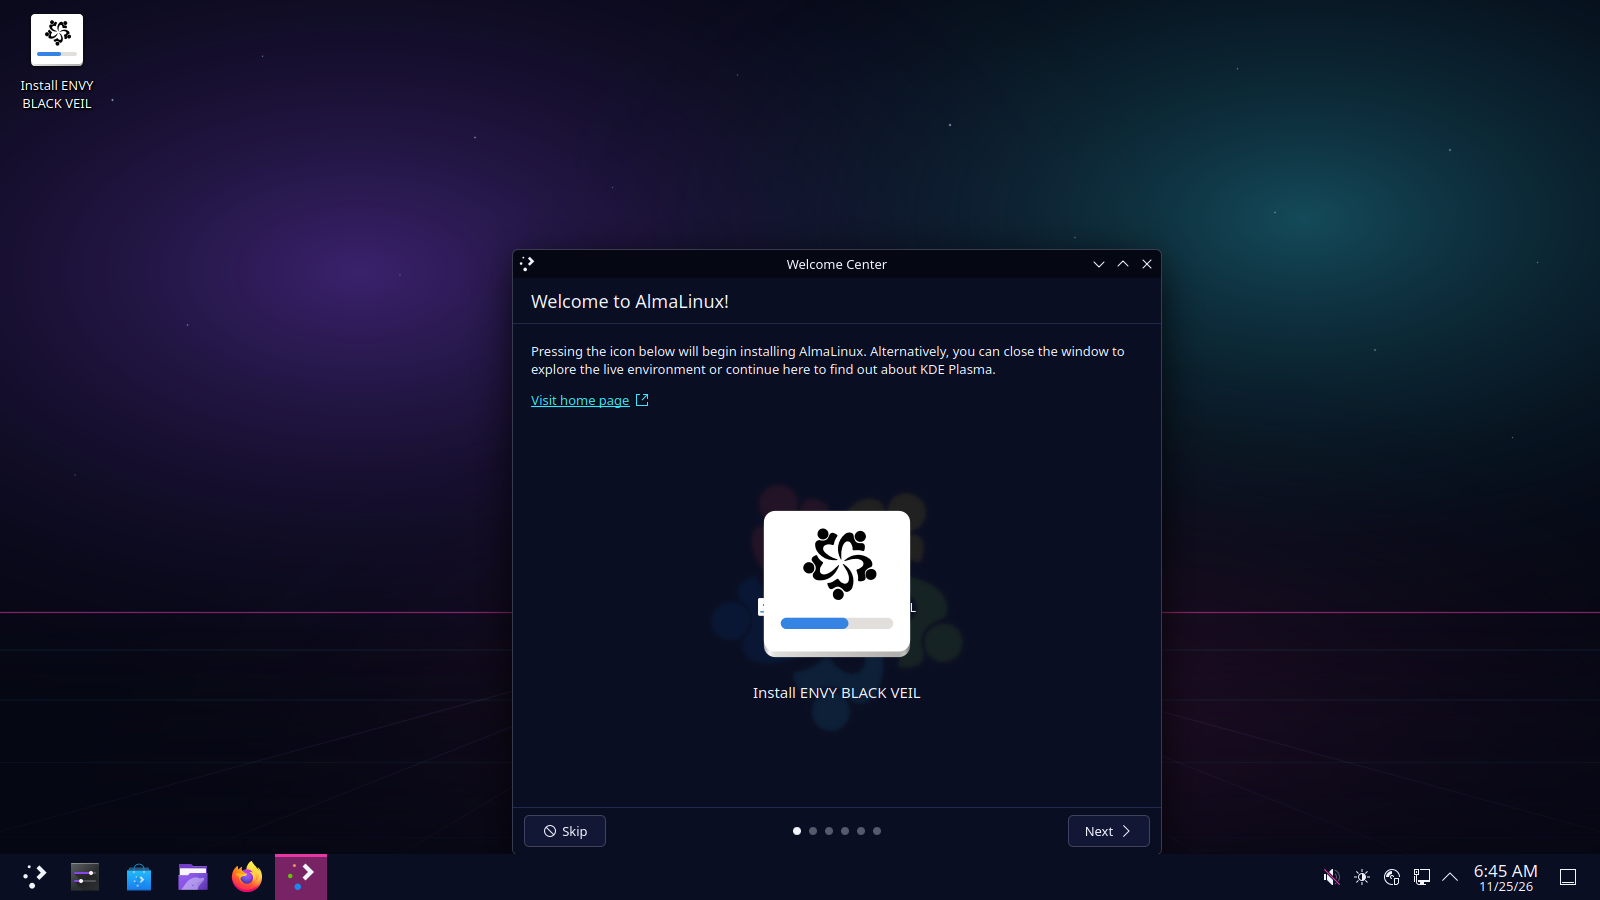
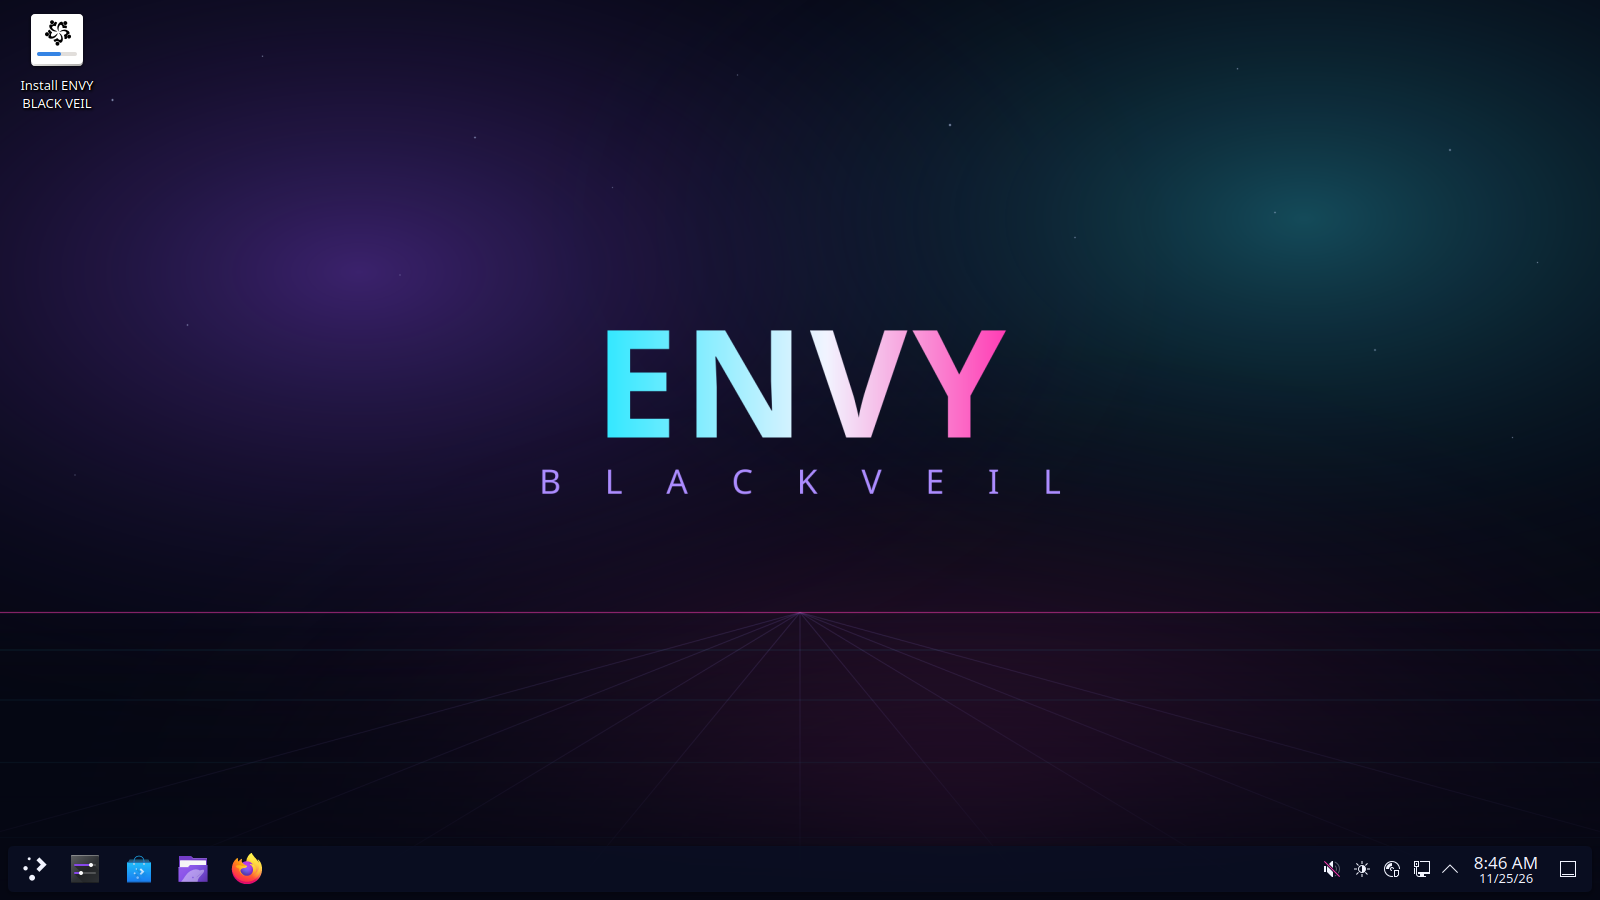
Installed systems as the image means them: ENVY GRUB menu, closed firewall, graphical
Found by the first full install test (55/55 checks now pass on aarch64 locally):
- The ENVY GRUB menu on installed systems comes from /etc/grub.d/05_envy_black_veil:
  Anaconda 40 no longer runs /usr/share/anaconda/post-scripts, so the old hook
  never ran. Boot entries are named "ENVY BLACK VEIL (<kernel>) on AlmaLinux 10.x"
  by a kernel-install hook, at install time and on kernel updates.
- The installer keeps the image's firewall (on, nothing open): Anaconda opens SSH
  on every install unless told otherwise, so the image's interactive defaults
  say firewall --use-system-defaults.
- boot-test: the test install asks for graphical boot (as a GUI install has it),
  adds its kickstart to BLACK VEIL's interactive defaults instead of replacing
  them, fixes the Secure Boot variable's GUID, soaks up the login echo before the
  first command, and stretches every serial wait in emulated VMs.
- Secure Boot (CI round 6, x86_64): the live ISO boots through its own GRUB and
  the installed disk boots, unlocks and logs in, with the kernel locked down.
- try-black-veil.ps1 -NoStart, and Windows CI now really creates the Hyper-V VM,
  checks Gen 2 / Secure Boot template / DVD first / 6 GB / 4 CPUs / 40 GB disk,
  and removes it again.
- README: try it on every OS, what "nothing phones home" means, build from a Mac;
  the live-desktop screenshot without the off-brand Welcome Center.

diff --git a/ci/boot-test.py b/ci/boot-test.py
@@ -100,6 +100,7 @@ def hardware_accel() -> str | None:
 
 
 ACCEL = "tcg"                            # set in main(): kvm, hvf, or tcg (emulated)
+SLOW = 1                                 # set in main(): emulated VMs get every wait stretched
 
 # The throwaway identity of the CI install (never used outside these VMs).
 TEST_USER = "envytest"
@@ -122,6 +123,7 @@ network --hostname=black-veil
 rootpw --lock
 user --name={TEST_USER} --groups=wheel --password={TEST_PASSWORD} --plaintext
 firstboot --disable
+xconfig --startxonboot
 shutdown
 ignoredisk --only-use=vda
 zerombr
@@ -198,7 +200,7 @@ def secure_boot_firmware(vars_copy: Path) -> list[str] | None:
 
 def secure_boot_checks(res: Results, prefix: str, sudo: str) -> None:
     res.check(f"{prefix}Secure Boot is on",
-              "od -An -tu1 /sys/firmware/efi/efivars/SecureBoot-8be4df61-93ca-11d2-aa0d-e0f6e2c33c69 | awk '{print $NF}'",
+              "od -An -tu1 /sys/firmware/efi/efivars/SecureBoot-8be4df61-93ca-11d2-aa0d-00e098032b8c | awk '{print $NF}'",
               ok=lambda rc, o: o == "1")
     res.check(f"{prefix}kernel lockdown (Secure Boot's protection of the running kernel)",
               "cat /sys/kernel/security/lockdown", ok=lambda rc, o: "[integrity]" in o or "[confidentiality]" in o)
@@ -373,7 +375,7 @@ class Serial:
         tag = f"ENVYRC{self.count}X"
         self.buf = ""
         self.send(f"{command}; echo {tag}=$?\n")
-        deadline = time.monotonic() + timeout
+        deadline = time.monotonic() + timeout * SLOW
         rx = re.compile(rf"{tag}=(\d+)")
         while time.monotonic() < deadline:
             m = rx.search(self.buf)
@@ -387,16 +389,17 @@ class Serial:
 
     def login(self, user: str, password: str, first_timeout: float) -> bool:
         for attempt in range(12):
-            if not self.expect(r"login:\s*$", first_timeout if attempt == 0 else 90):
+            if not self.expect(r"login:\s*$", first_timeout if attempt == 0 else 90 * SLOW):
                 return False
             self.send(user + "\n")
-            m = self.expect(r"(Password:\s*$|\$\s*$|Login incorrect)", 30)
+            m = self.expect(r"(Password:\s*$|\$\s*$|Login incorrect)", 30 * SLOW)
             if m and m.group(1).startswith("Password"):
                 self.send(password + "\n")
-                m = self.expect(r"(\$\s*$|Login incorrect)", 30)
+                m = self.expect(r"(\$\s*$|Login incorrect)", 30 * SLOW)
             if m and "$" in m.group(1):
                 self.send("export PS1='$ ' TERM=dumb; stty -echo; unset PROMPT_COMMAND\n")
-                self.expect(r"\$\s*$", 10)
+                self.expect(r"\$\s*$", 10 * SLOW)
+                self.run("true", 30)                     # soak up the rest of the echo
                 return True
             time.sleep(5)                                # e.g. livesys still creating the user
         return False
@@ -611,9 +614,10 @@ def install_to_disk(res: Results, args, out: Path) -> bool:
            " ANACONDA_PRODUCTVERSION=\"$(sed -r -e 's/^.* ([0-9.]+).*$/\\1/' /etc/system-release)\""
            " ANACONDA_ISFINAL=true")
     # In live mode Anaconda ignores --kickstart and parses its interactive defaults,
-    # /usr/share/anaconda/interactive-defaults.ks, instead; in this throwaway live VM the
-    # test's kickstart takes that file's place, and AUTOMATED_ANACONDA runs it unattended.
-    con.run("{ ( " + SUDO + " " + env + " sh -c 'cp /tmp/envy-install.ks /usr/share/anaconda/interactive-defaults.ks;"
+    # /usr/share/anaconda/interactive-defaults.ks, instead (BLACK VEIL's own defaults
+    # are in there); in this throwaway live VM the test's kickstart is added to them,
+    # and AUTOMATED_ANACONDA runs the result unattended.
+    con.run("{ ( " + SUDO + " " + env + " sh -c 'cat /tmp/envy-install.ks >> /usr/share/anaconda/interactive-defaults.ks;"
             " setenforce 0; python3 /tmp/envy-anaconda.py --liveinst --cmdline"
             " > /tmp/envy-install.log 2>&1; echo $? > /tmp/envy-install.rc; setenforce 1' ) > /dev/null 2>&1 & }", 30)
     started, last, status = time.monotonic(), "", None
@@ -762,8 +766,11 @@ def boot_installed(args, out: Path, res: Results, disk: Path, secure: bool = Fal
         res.check("installed: ENVY boot splash is the default", "plymouth-set-default-theme",
                   ok=lambda rc, o: o == "envy-black-veil")
         res.check("installed: ENVY GRUB menu switched on",
-                  "grep -E '^GRUB_(THEME|TERMINAL_OUTPUT)=' /etc/default/grub; " + s + " grep -c 'envy-black-veil' /boot/grub2/grub.cfg",
+                  f"{s} grep -E '^(terminal_output|set theme=).*' /boot/grub2/grub.cfg",
                   ok=lambda rc, o: "envy-black-veil/theme.txt" in o and "gfxterm" in o)
+        res.check("installed: boot menu entries named ENVY BLACK VEIL",
+                  f"{s} sh -c \"grep -h '^title' /boot/loader/entries/*.conf\"",
+                  ok=lambda rc, o: bool(o) and all("ENVY BLACK VEIL" in line for line in o.splitlines()))
         for name, command, ok, required in no_network_listeners("installed: ", s) + no_phone_home("installed: ", s):
             res.check(name, command, ok=ok, required=required)
         res.check("installed: ENVY packages", "rpm -q envy-black-veil-theme envy-black-veil-release")
@@ -817,13 +824,13 @@ def main() -> int:
     ap.add_argument("--arch", choices=sorted(PLATFORMS),
                     default=HOST_ARCH if HOST_ARCH in PLATFORMS else "x86_64")
     args = ap.parse_args()
-    global PLATFORM, ACCEL
+    global PLATFORM, ACCEL, SLOW
     PLATFORM = PLATFORMS[args.arch]
     # Hardware virtualization runs only the computer's own architecture. Without it
     # the VM is emulated (several times slower): stretch the waits, and skip the
     # install, which would take hours.
     ACCEL = (hardware_accel() if args.arch == HOST_ARCH else None) or "tcg"
-    args.slow = 6 if ACCEL == "tcg" else 1
+    args.slow = SLOW = 6 if ACCEL == "tcg" else 1
     print(f"{args.arch} VMs, " + {"kvm": "KVM", "hvf": "Hypervisor framework"}.get(
         ACCEL, f"emulated (no hardware virtualization for {args.arch} here)"), flush=True)
     if args.install and ACCEL == "tcg":

diff --git a/README.md b/README.md
@@ -31,11 +31,16 @@
 On **Windows, macOS or Linux** — in a virtual machine (nothing on your computer changes) or from a USB stick:
 
 ```sh
-./try-black-veil.sh envy-black-veil-0.1.0-x86_64.iso     # macOS (Intel) or Linux, with QEMU
-./try-black-veil.sh envy-black-veil-0.1.0-aarch64.iso    # Apple Silicon Mac, once the ARM build is up
+./try-black-veil.sh envy-black-veil-0.1.0-aarch64.iso    # Apple Silicon Mac (brew install qemu)
+./try-black-veil.sh envy-black-veil-0.1.0-x86_64.iso     # Linux or Intel Mac, with QEMU
 ```
 
-Step by step for **UTM, Parallels, VMware, Hyper-V, VirtualBox, GNOME Boxes and virt-manager**, plus USB sticks: **[docs/try-it.md](docs/try-it.md)**. The ISO comes from the latest green [ISO workflow run](https://github.com/xzchick/envy-black-veil/actions/workflows/iso.yml) (its *envy-black-veil-iso* artifact, with a SHA-256 file); a signed release download is on the roadmap.
+```powershell
+# Windows 10/11 Pro with Hyper-V, from an administrator PowerShell
+powershell -ExecutionPolicy Bypass -File .\try-black-veil.ps1 .\envy-black-veil-0.1.0-x86_64.iso
+```
+
+Each sets up a VM the way BLACK VEIL needs it (UEFI, 6 GB, 4 CPUs, a 40 GB disk to install onto; on Hyper-V, Secure Boot with the Microsoft UEFI CA template) and boots the live desktop. Step by step for **UTM, Parallels, VMware, VirtualBox, GNOME Boxes and virt-manager**, plus USB sticks: **[docs/try-it.md](docs/try-it.md)**. The ISOs come from the latest green [ISO workflow run](https://github.com/xzchick/envy-black-veil/actions/workflows/iso.yml) (its *envy-black-veil-iso* artifacts, each with a SHA-256 file, a package list and an SBOM).
 
 ---
 
@@ -95,9 +100,11 @@ CYAN #35e8ff   LAVENDER #ac8cff   VIOLET #8547e8   GREEN #49e3a6
 
 ## Encrypted & offline by design
 
-- **SELinux enforcing**, the **firewall on with nothing open**, and **nothing listening on the network** — checked by CI on every build. SSH, printing (CUPS), network discovery (Avahi), the Cockpit web console and KDE Connect are off or left out; turn on only what you need.
-- **Full-disk LUKS encryption** offered in the installer — the ENVY boot splash prompts for the passphrase.
-- No telemetry, no accounts, no phone-home. Every ENVY app except Recon and Tunnel works with **no network** at all.
+- **SELinux enforcing**, the **firewall on with nothing open**, and **nothing listening on the network**, on the live system and on what you install. SSH, printing (CUPS) and network discovery (Avahi) are off; the Cockpit web console, Samba file sharing, KDE Connect and KDE's remote-desktop servers (VNC, RDP) aren't installed. Turn on only what you need.
+- **Nothing phones home.** No connectivity check (NetworkManager would fetch a vendor's test page every few minutes), no firmware or DNF "countme" pings on a timer, no location lookup in the installer, and Firefox ships with telemetry, studies and sponsored content off. Updates are still there when you ask: `sudo dnf upgrade`, `fwupdmgr refresh`. See [`privacy/`](privacy).
+- **Full-disk LUKS2 encryption** in the installer; the ENVY boot splash asks for the passphrase.
+- No accounts. Every ENVY app except Recon and Tunnel works with **no network** at all.
+- CI checks every one of these on every build, live and installed.
 
 ---
 
@@ -113,7 +120,15 @@ Short version: write the ISO to a USB stick, boot it, run **Install ENVY BLACK V
 
 ## Build it
 
-The OS is built the way AlmaLinux builds its own live media, on an AlmaLinux 10 machine or VM (x86_64 or aarch64):
+One command from **macOS or Linux** builds it in a throwaway AlmaLinux 10 VM, exactly as CI does (an Apple Silicon Mac builds the aarch64 ISO in about 10 minutes):
+
+```sh
+git clone https://github.com/xzchick/envy-black-veil.git && cd envy-black-veil
+./ci/build-in-vm.sh                 # macOS: brew install qemu   -> output/envy-black-veil-0.1.0-<arch>.iso
+python3 ci/boot-test.py --install --iso output/envy-black-veil-0.1.0-*.iso --out test/   # every CI check, locally
+```
+
+Or directly on an AlmaLinux 10 machine or VM (x86_64 or aarch64), the way AlmaLinux builds its own live media:
 
 ```sh
 sudo dnf install -y epel-release
@@ -134,11 +149,13 @@ sudo ./build/build-iso.sh          # -> output/envy-black-veil-0.1.0-<arch>.iso
 | :--- | :--- |
 | Live-ISO definition | [`kickstart/envy-black-veil.ks`](kickstart/envy-black-veil.ks) |
 | ENVY theme (Plasma, SDDM, Plymouth, GRUB, Konsole, wallpaper) | [`theme/`](theme) |
-| Identity RPMs (theme, release file, Anaconda GRUB hook) | [`packaging/envy-black-veil.spec`](packaging/envy-black-veil.spec) |
+| Identity RPMs (theme, boot menu and entry names, release file, privacy defaults) | [`packaging/envy-black-veil.spec`](packaging/envy-black-veil.spec) |
+| Privacy defaults (NetworkManager, Firefox, installer) | [`privacy/`](privacy) |
 | `envy-tools` on-demand app installer | [`tools/envy-tools`](tools/envy-tools) |
 | ISO build script + Makefile | [`build/build-iso.sh`](build/build-iso.sh) |
-| CI: build in a VM, boot and check the ISO | [`ci/`](ci) · [ISO workflow](.github/workflows/iso.yml) |
-| Try it in a VM with one command (macOS, Linux) | [`try-black-veil.sh`](try-black-veil.sh) |
+| CI: build in a VM, boot, install and check the ISO; package list and SBOM | [`ci/`](ci) · [ISO workflow](.github/workflows/iso.yml) |
+| Signed releases (ISOs that passed every check, signed checksums, SBOMs) | [Release workflow](.github/workflows/release.yml) |
+| Try it in a VM with one command (macOS, Linux · Windows Hyper-V) | [`try-black-veil.sh`](try-black-veil.sh) · [`try-black-veil.ps1`](try-black-veil.ps1) |
 | Docs (try it, external drive, building, customizing) | [`docs/`](docs) |
 
 ---
